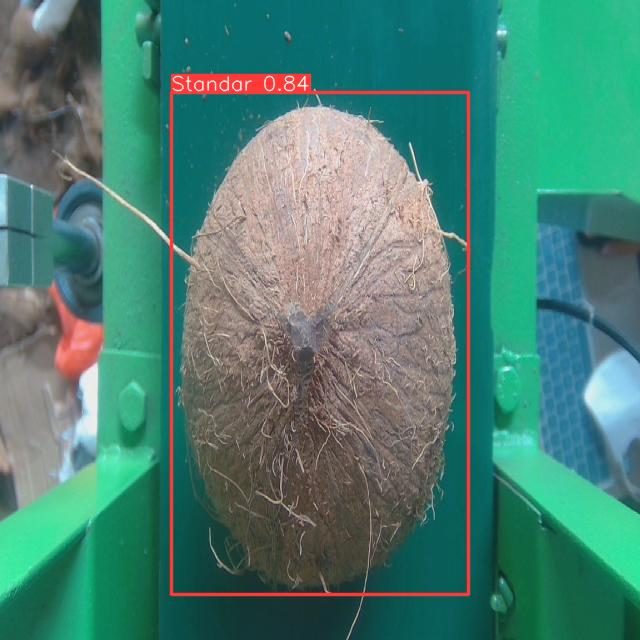
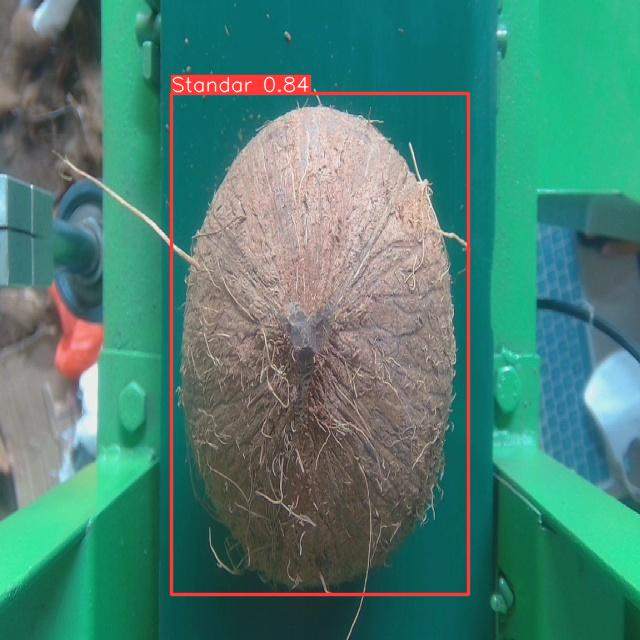
move capture_img to in folder so make it clean

Changed region(s): [[0.25, 0.0938, 0.75, 0.1562]]

diff --git a/app_kelapa.py b/app_kelapa.py
@@ -72,10 +72,13 @@ def update_frame():
             # Resize the frame to a compatible size for YOLOv5
             resized_frame = cv2.resize(frame, (640, 640))
             
-            # Get the results and print
+            # Create the directory if it doesn't exist
+            os.makedirs(os.path.dirname("capture_img/"), exist_ok=True)
             # Automatically capture the frame
-            img_name = "capture_img.jpg"
+            img_name = "capture_img/capture_img.jpg"
+            # Save the frame as an image file
             cv2.imwrite(img_name, resized_frame)
+            # Load the image file
             results = model(img_name)
             
             # Save the predicted image
